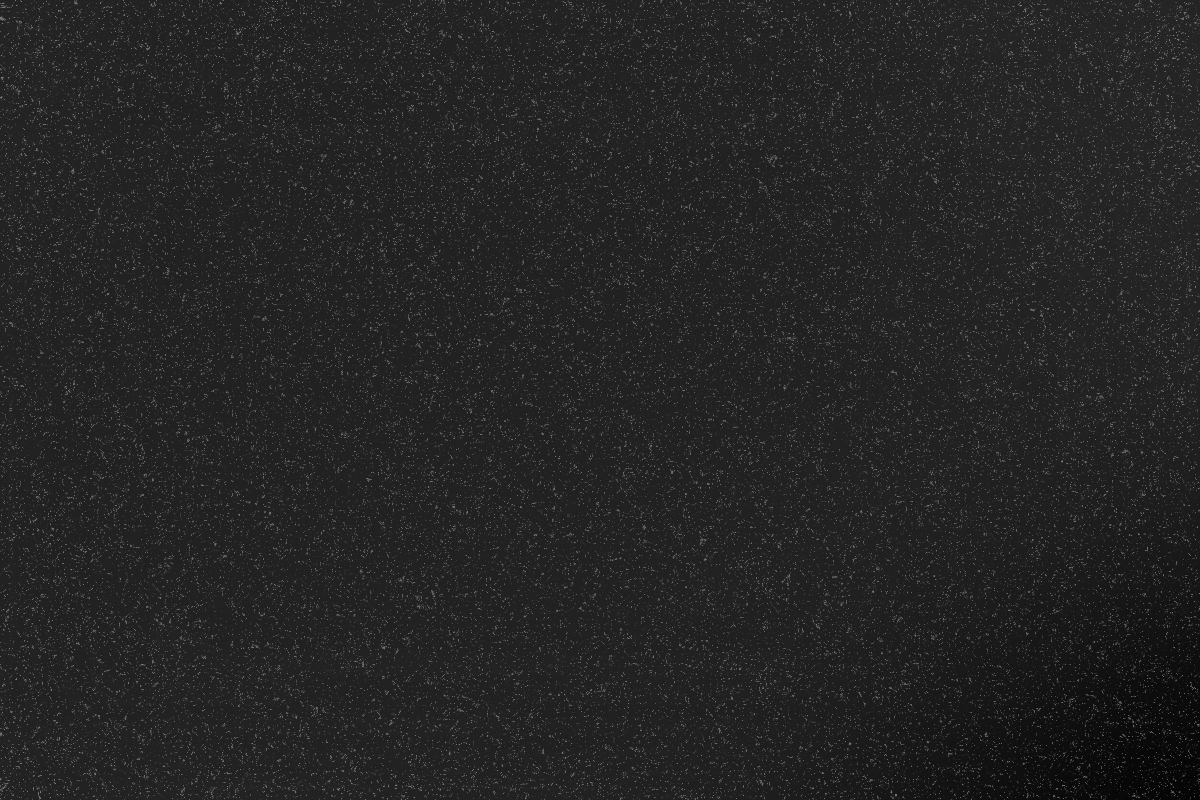
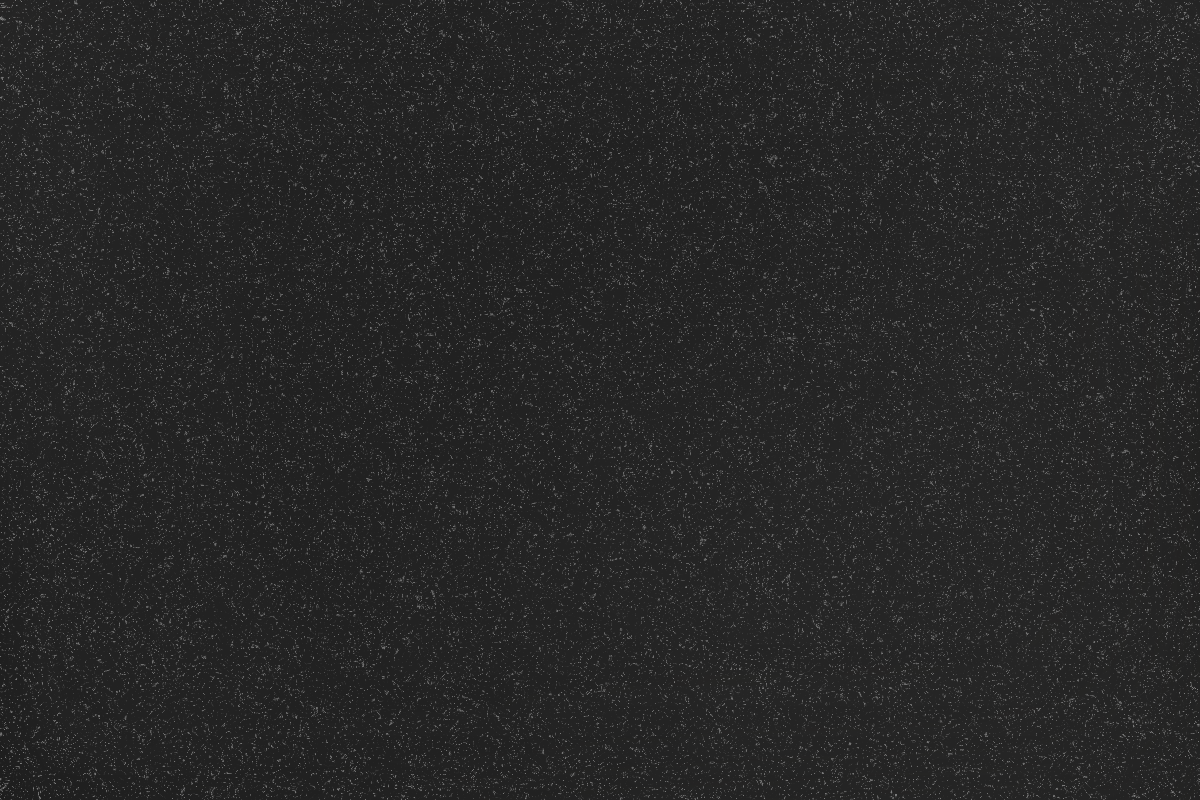
intro background update

Changed region(s): [[0.8633, 0.875, 1.0, 1.0]]

diff --git a/styles/intro.css b/styles/intro.css
@@ -1,10 +1,6 @@
 #intro {
   background: rgb(26, 25, 29);
-  background: linear-gradient(56deg, rgba(26, 25, 29, 1) 86%, rgba(84, 85, 87, 1) 100%);
-  background-image: url('../public/backgrounds/intro-bg.png');
-  background-position: center;
-  background-size: cover;
-  background-repeat: no-repeat;
+  background: linear-gradient(45deg, rgba(26, 25, 29, 1) 82%, rgba(84, 85, 87, 0.1) 82%);
 }
 
 .intro-address {
